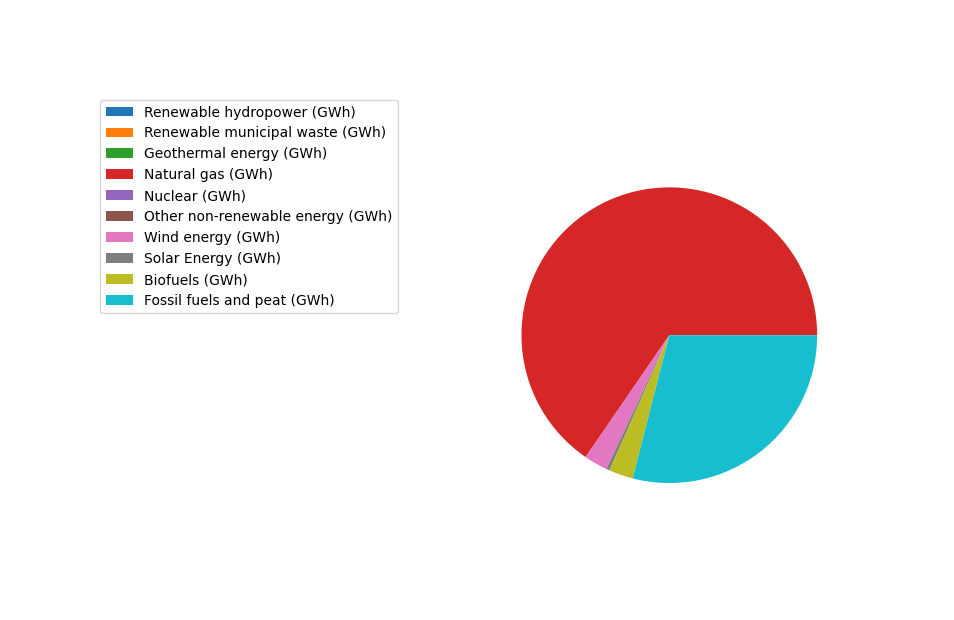
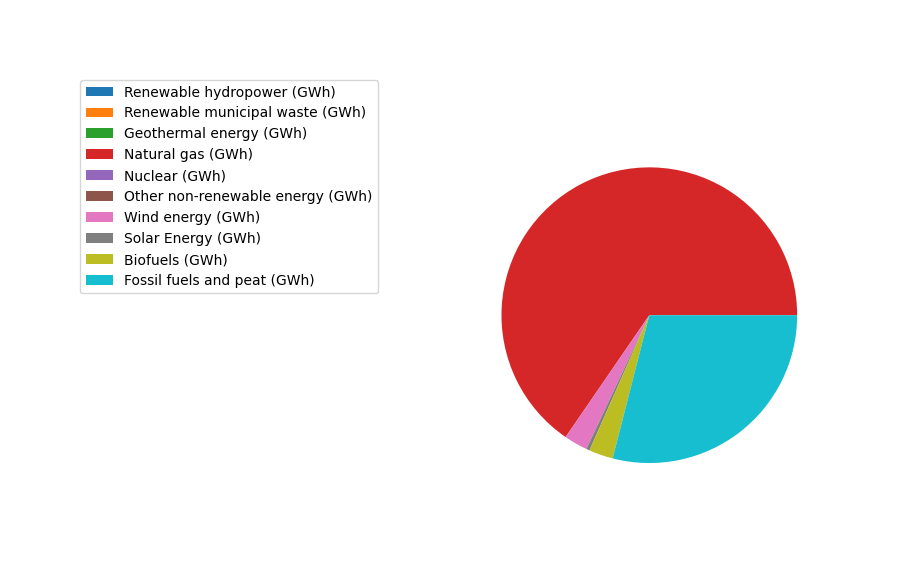
Fixed issue with null values being shown in the table and graph

diff --git a/src/routes/api/query_data.py b/src/routes/api/query_data.py
@@ -4,8 +4,9 @@ import pandas as pd
 import numpy as np
 import matplotlib
 import matplotlib.pyplot as plt
+import os   
 
-HTML_TEMPLATE = '<img src="country_graph.png" alt="Country graph" width="800" height="600">'
+HTML_TEMPLATE = '<img src="country_graph.png" alt="Country graph" position:absolute bottom=0 width="800" height="600">'
 
 matplotlib.use('Agg')
 import math as ma
@@ -19,24 +20,28 @@ def query_data(country): # Returns a dataframe containing the country matching t
     #country = request.args.get('country',type=str)
     dataset = pd.read_csv('src/python/clumped_data.csv')
     #values = dataset[dataset['Country'].str.contains(fr'{country}', case=False)].reset_index().to_json(orient='records')
-    formatted = (dataset[dataset['Country'].str.match(fr'{country}', case=False)].reset_index()).transpose()
+    formatted = (dataset[dataset['Country'].str.match(fr'{country}', case=False)].reset_index()).dropna(axis=1, how='all').transpose()
     dropped = formatted.iloc[1: , :]
     html_table = dropped.to_html(classes='table')
     return html_table
 
 @app.route("/chart/<country>", methods=['GET','POST'])
 def get_plot(country):
-    dataset = pd.read_csv('src/python/clumped_data.csv')
-    energy_doc = (dataset[dataset['Country'].str.match(fr'{country}', case=False)])
-    energy_doc = energy_doc.drop(['Code (alpha-3)', 'Country', 'Renewable energy production (%)'], axis=1)
-    labels = energy_doc.columns.tolist()
-    values = energy_doc.to_numpy().flatten()
-    fig,ax = plt.subplots()
-    ax.pie(values)
-    fig.legend(labels=labels, loc='upper right', bbox_to_anchor=(0.1,1))
-    fig.savefig(f'static/{country}.png', bbox_inches='tight', pad_inches=1)
     content = HTML_TEMPLATE
     content = content.replace('country_graph', country)
+    if not(os.path.exists('static/{country}.png')):
+        dataset = pd.read_csv('src/python/clumped_data.csv')
+        energy_doc = (dataset[dataset['Country'].str.match(fr'{country}', case=False)])
+        energy_doc = energy_doc.drop(['Code (alpha-3)', 'Country', 'Renewable energy production (%)'], axis=1).dropna(axis=1, how='all')
+        labels = energy_doc.columns.tolist()
+        values = energy_doc.to_numpy().flatten()
+        if (values.any()):
+            fig,ax = plt.subplots()
+            ax.pie(values)
+            fig.legend(labels=labels, loc='upper right', bbox_to_anchor=(0.1,1))
+            fig.savefig(f'static/{country}.png', bbox_inches='tight', pad_inches=0.8)
+        else:
+            content = '<! no value>'
     return content
     
 
